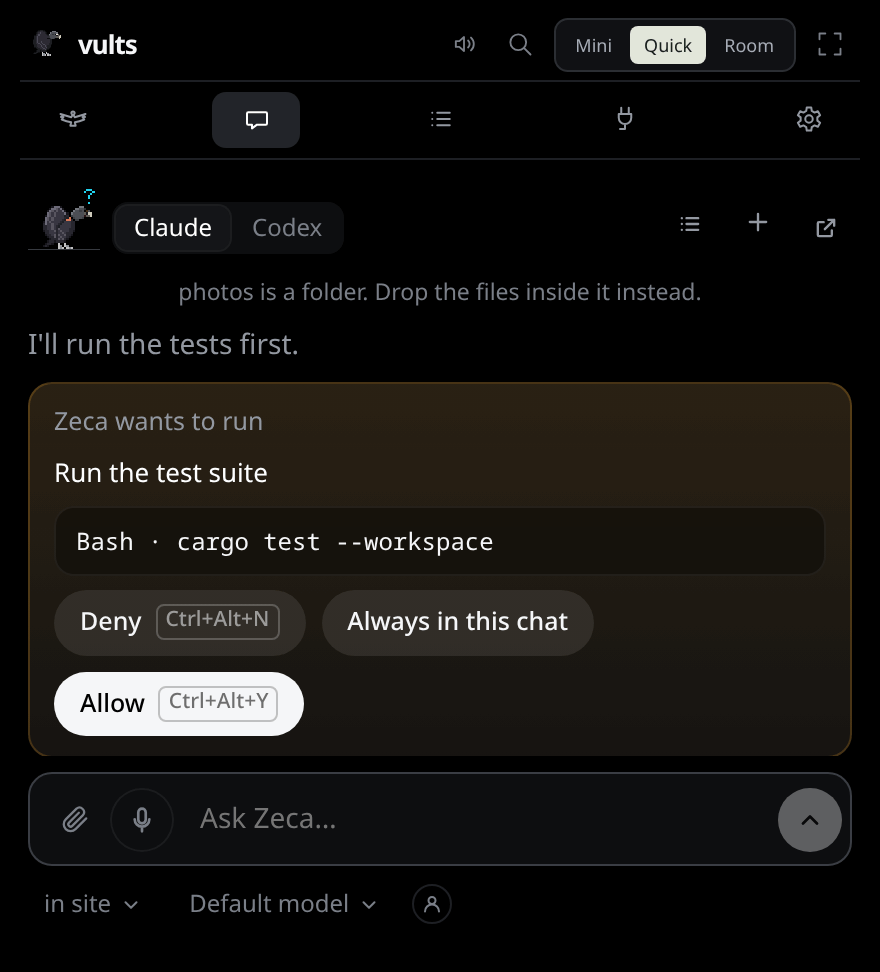
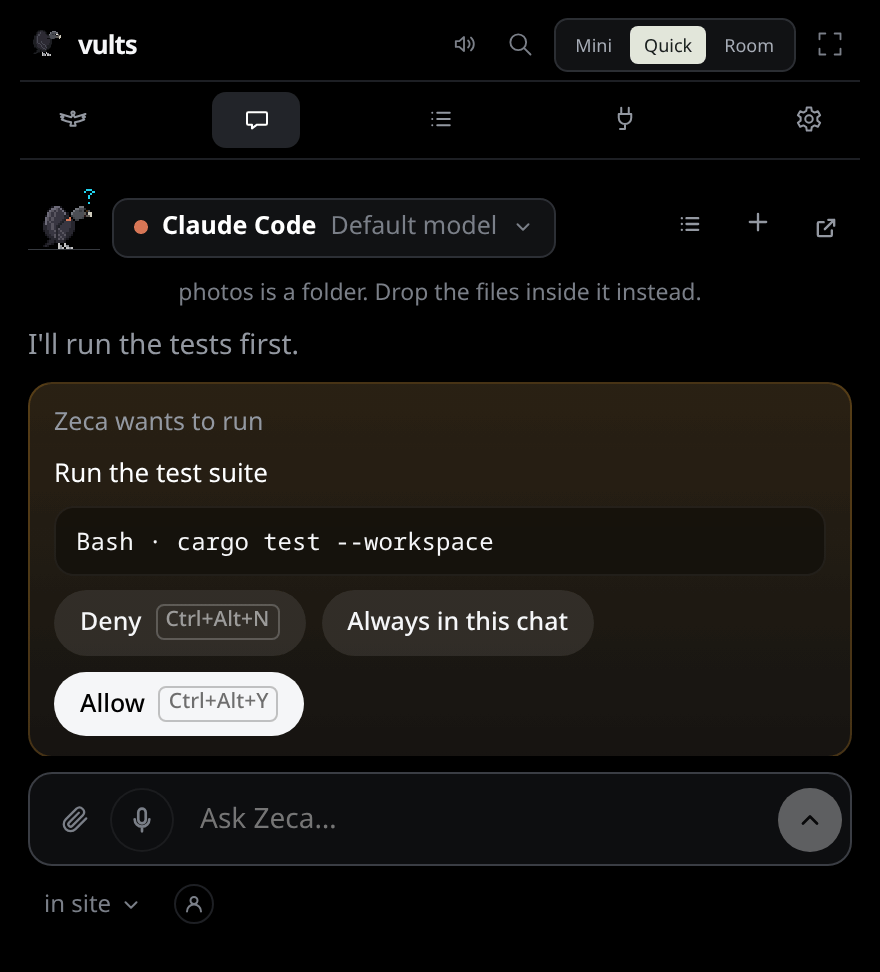
The README shows Room (#307)
A picture of the Nest's Flock at the size the window first opens, taken
by docs-shots, beside Mini and Quick; every docs picture retaken on main
(the chat's new pill shows in them).

Claude-Session: https://claude.ai/code/session_01FYCciNdEutL3RFauTHRBCD

Changed region(s): [[0.1534, 0.216, 0.583, 0.2469], [0.2148, 0.8951, 0.3989, 0.9568], [0.4602, 0.9259, 0.5216, 0.9568]]

diff --git a/docs/dev/plan-living-flock.md b/docs/dev/plan-living-flock.md
@@ -162,7 +162,7 @@ wait until they do), D7 (Zeca optional).
 | L12 | **The live check of Quick's tabs.** An isolated instance (own runtime, config and data; never the user's hooks), only when the user agrees: it shows on their desktop. Chat, Activity, Connections, the gear, the need chips, Room from each tab | Full-window screenshots |
 | L13 | **Done.** **Small leftovers.** The gear's view reads Presence and Fold again when they change elsewhere (the `settings` event); the chat's folder menu gets a max height and scrolls | Visual tests |
 | L14 | **Done.** **The chat's engine pill.** The prototype's one button, *● Claude Code · Default model ▾*, in place of the Claude/Codex switch with the model under the composer; its menu holds the engine, the model and the effort | Island chat baselines |
-| L15 | **The Nest in the README.** A picture of Room (the Nest's Flock) beside Mini and Quick | `docs-shots` |
+| L15 | **Done.** **The Nest in the README.** A picture of Room (the Nest's Flock) beside Mini and Quick | `docs-shots` |
 | L16 | **Activity by project** (needs the user's go). Core counts the week per project (`WeekView` gains it); Quick's Activity draws the prototype's bars by project, the days below | Core tests; island baselines |
 | L17 | **Actions on Connections' rows** (needs the user's pick, each is a request on their behalf, ADR 0019; *Fix with an agent*, Linear and Issues stay out, ADR 0011). Candidates: *Review with Zeca*, *Ask Zeca why* (a failing check), *Squash and merge*, *Start on it*, and ✓ to mark a row seen | Per action |
 

diff --git a/README.pt-br.md b/README.pt-br.md
@@ -1,4 +1,4 @@
-<!-- source: ba1f4936af0b -->
+<!-- source: 4c7876df833d -->
 <p align="center">
   <img src="docs/assets/zeca.png" width="128" height="128" alt="Zeca, um urubu-de-cabeça-preta em 8 bits">
 </p>
@@ -58,6 +58,13 @@ O Quick tem cinco abas: **Flock**, **Chat** (o Zeca, com um clipe para arquivos 
 
 <p align="center">
   <img src="docs/assets/island-tabs.png" width="880" alt="As outras abas do Quick: o chat, a atividade da semana, as linhas do GitHub em Connections e as configurações da engrenagem">
+</p>
+
+O **Room** abre o Nest no lugar da ilha: o bando pela janela sobre um card por sessão, e a escolhida
+embaixo com as mudanças, a atividade e o contexto dela. Puxe as bordas para o tamanho que quiser.
+
+<p align="center">
+  <img src="docs/assets/nest-room.png" width="880" alt="Room: o Flock do Nest, quatro vults sobre os cards das sessões, e o diff da sessão escolhida embaixo">
 </p>
 
 ## O bando

diff --git a/README.md b/README.md
@@ -59,6 +59,13 @@ island's settings, and the rest of Settings in the Nest).
   <img src="docs/assets/island-tabs.png" width="880" alt="Quick's other tabs: the chat, this week's activity, GitHub's rows in Connections, and the gear's settings">
 </p>
 
+**Room** opens the Nest in the island's place: the flock across the window over a card per session,
+the one picked below with its changes, activity and context. Pull its edges to any size.
+
+<p align="center">
+  <img src="docs/assets/nest-room.png" width="880" alt="Room: the Nest's Flock, four vults over their session cards, and the picked session's diff below">
+</p>
+
 ## The flock
 
 - **A bird per session.** It reads, pecks the wire while editing, tugs at it while a command runs,
